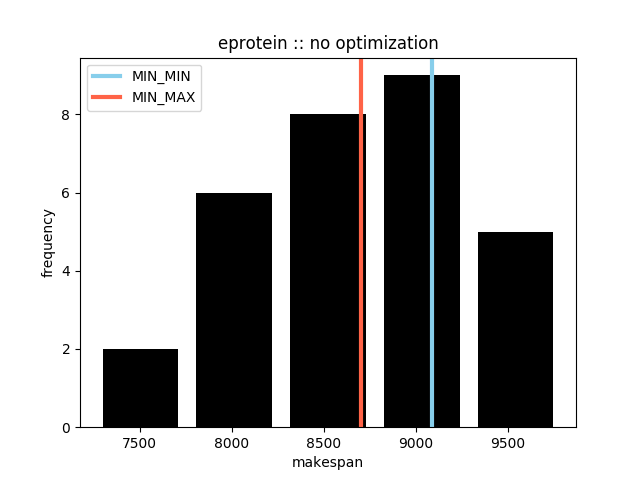
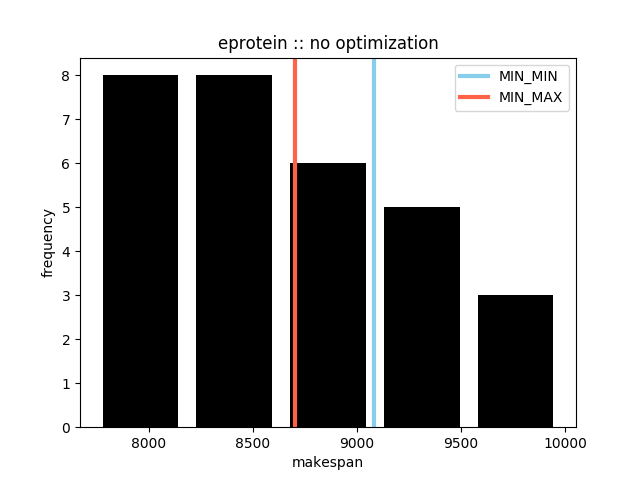
enlarge ds

diff --git a/vmlb/src/edu/ncsu/datasets/PSPLIB.java b/vmlb/src/edu/ncsu/datasets/PSPLIB.java
@@ -2,6 +2,7 @@ package edu.ncsu.datasets;
 
 import java.io.InputStream;
 import java.util.ArrayList;
+import java.util.Arrays;
 import java.util.HashMap;
 import java.util.List;
 import java.util.Map;
@@ -50,7 +51,6 @@ public class PSPLIB implements Dataset {
 
 		for (String name : this.tasks.keySet())
 			cloudletList.add(tasks.get(name));
-
 		return cloudletList;
 	}
 
@@ -104,9 +104,10 @@ public class PSPLIB implements Dataset {
 		// Create cloudlets
 		for (String str : taskLoadInfo) {
 			String[] s = str.split("\\s+");
-			tasks.put(s[1], createCloudlet(Integer.parseInt(s[3]) * 10));
+			tasks.put(s[s.length-7], createCloudlet(Integer.parseInt(s[s.length-5]) * 10));
 		}
-
+		
+		
 		// Create workFlows
 		for (String str : taskFlowInfo) {
 			String[] s = str.split("\\s+");
@@ -131,6 +132,7 @@ public class PSPLIB implements Dataset {
 	}
 
 	public static void main(String[] args) {
-		PSPLIB x = new PSPLIB(0, 0, "j301_1", 30);
+		PSPLIB x = new PSPLIB(0, 0, "j1201_1", 120);
+		System.out.println(x.getCloudletList().size());
 	}
 }

diff --git a/vmlb/src/edu/ncsu/wls/Infrastructure.java b/vmlb/src/edu/ncsu/wls/Infrastructure.java
@@ -25,7 +25,7 @@ public class Infrastructure {
 	public static final int CLOUDLET_ID_SHIFT = 0;
 	public static final String DATACENTER_NAME = "ncsu";
 	public static final String[] models = new String[] { "fmri", "eprotein", "j30_1", "j30_2", "j60_1", "j60_2",
-			"j90_1", "j90_2", "j120_1", "j120_2"};
+			"j90_1", "j90_2", "j120_1", "j120_2" };
 
 	/**
 	 * Creating Amazon EC2 virtual machines
@@ -206,7 +206,7 @@ public class Infrastructure {
 			workflow = psp32.getCloudletPassport();
 			break;
 		case "j120_1":
-			PSPLIB psp4 = new PSPLIB(brokerId, CLOUDLET_ID_SHIFT, "j12001_1", 120);
+			PSPLIB psp4 = new PSPLIB(brokerId, CLOUDLET_ID_SHIFT, "j1201_1", 120);
 			cloudletList = psp4.getCloudletList();
 			workflow = psp4.getCloudletPassport();
 			break;
